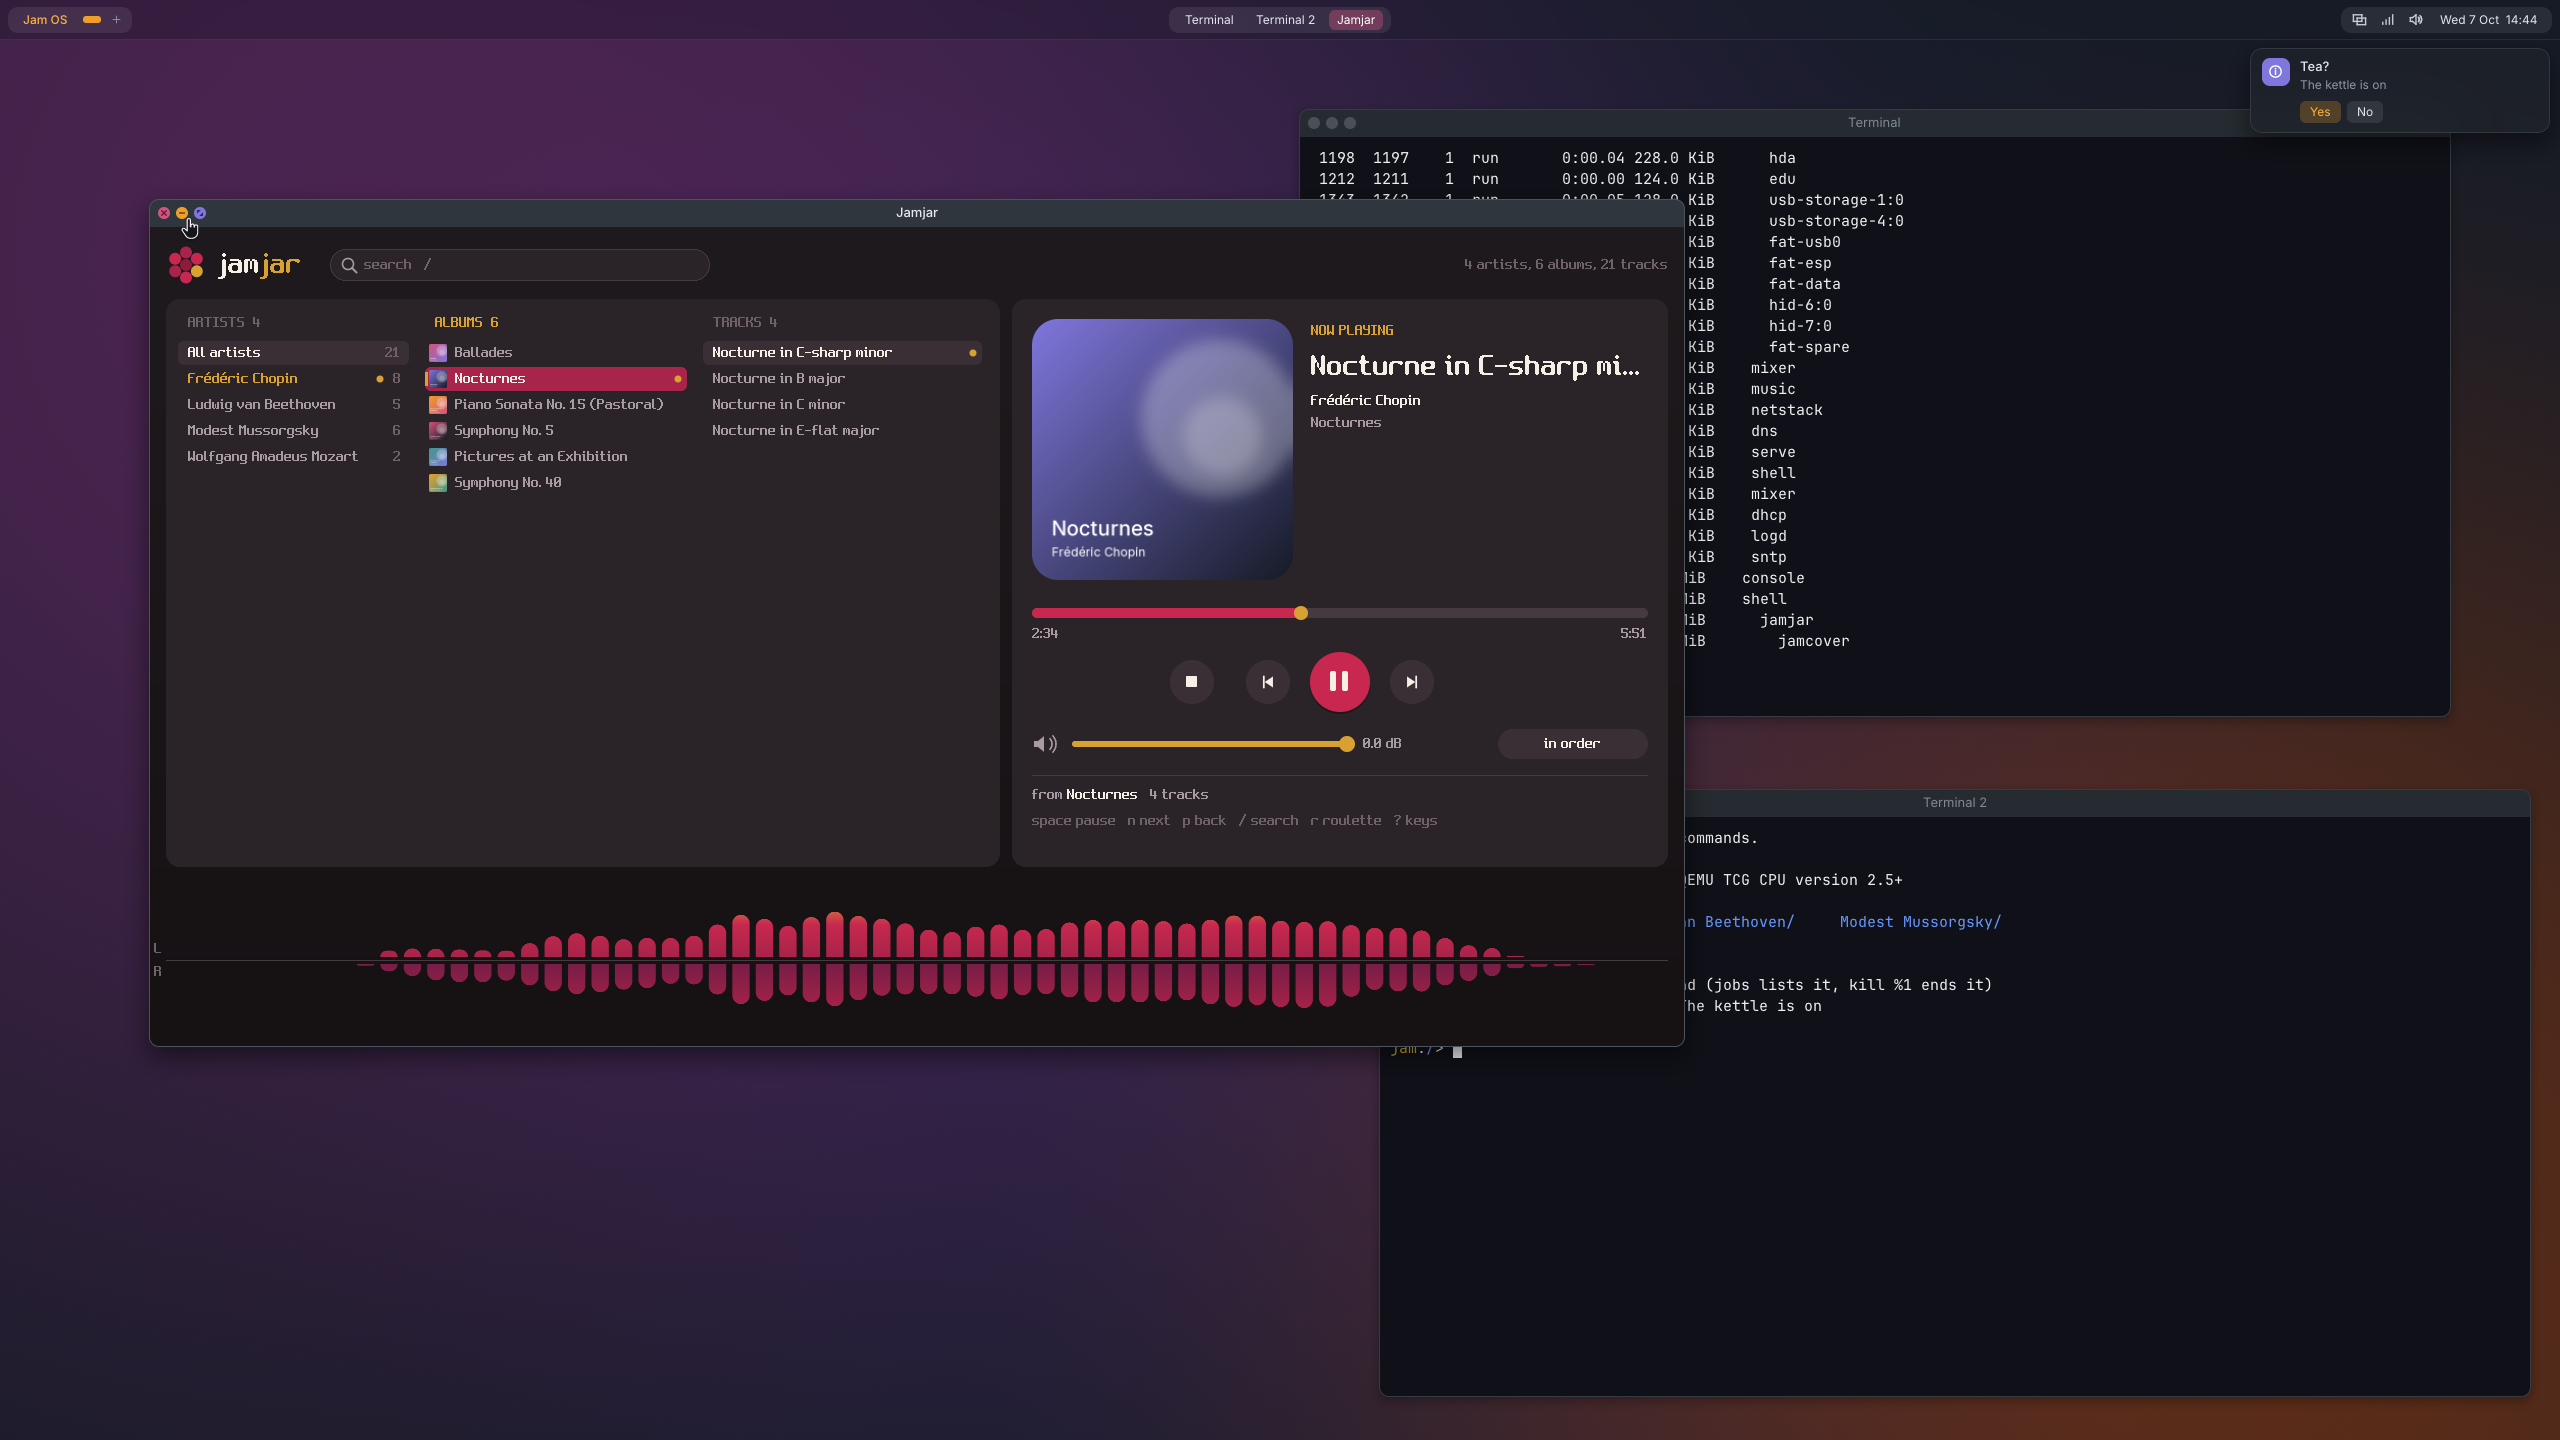
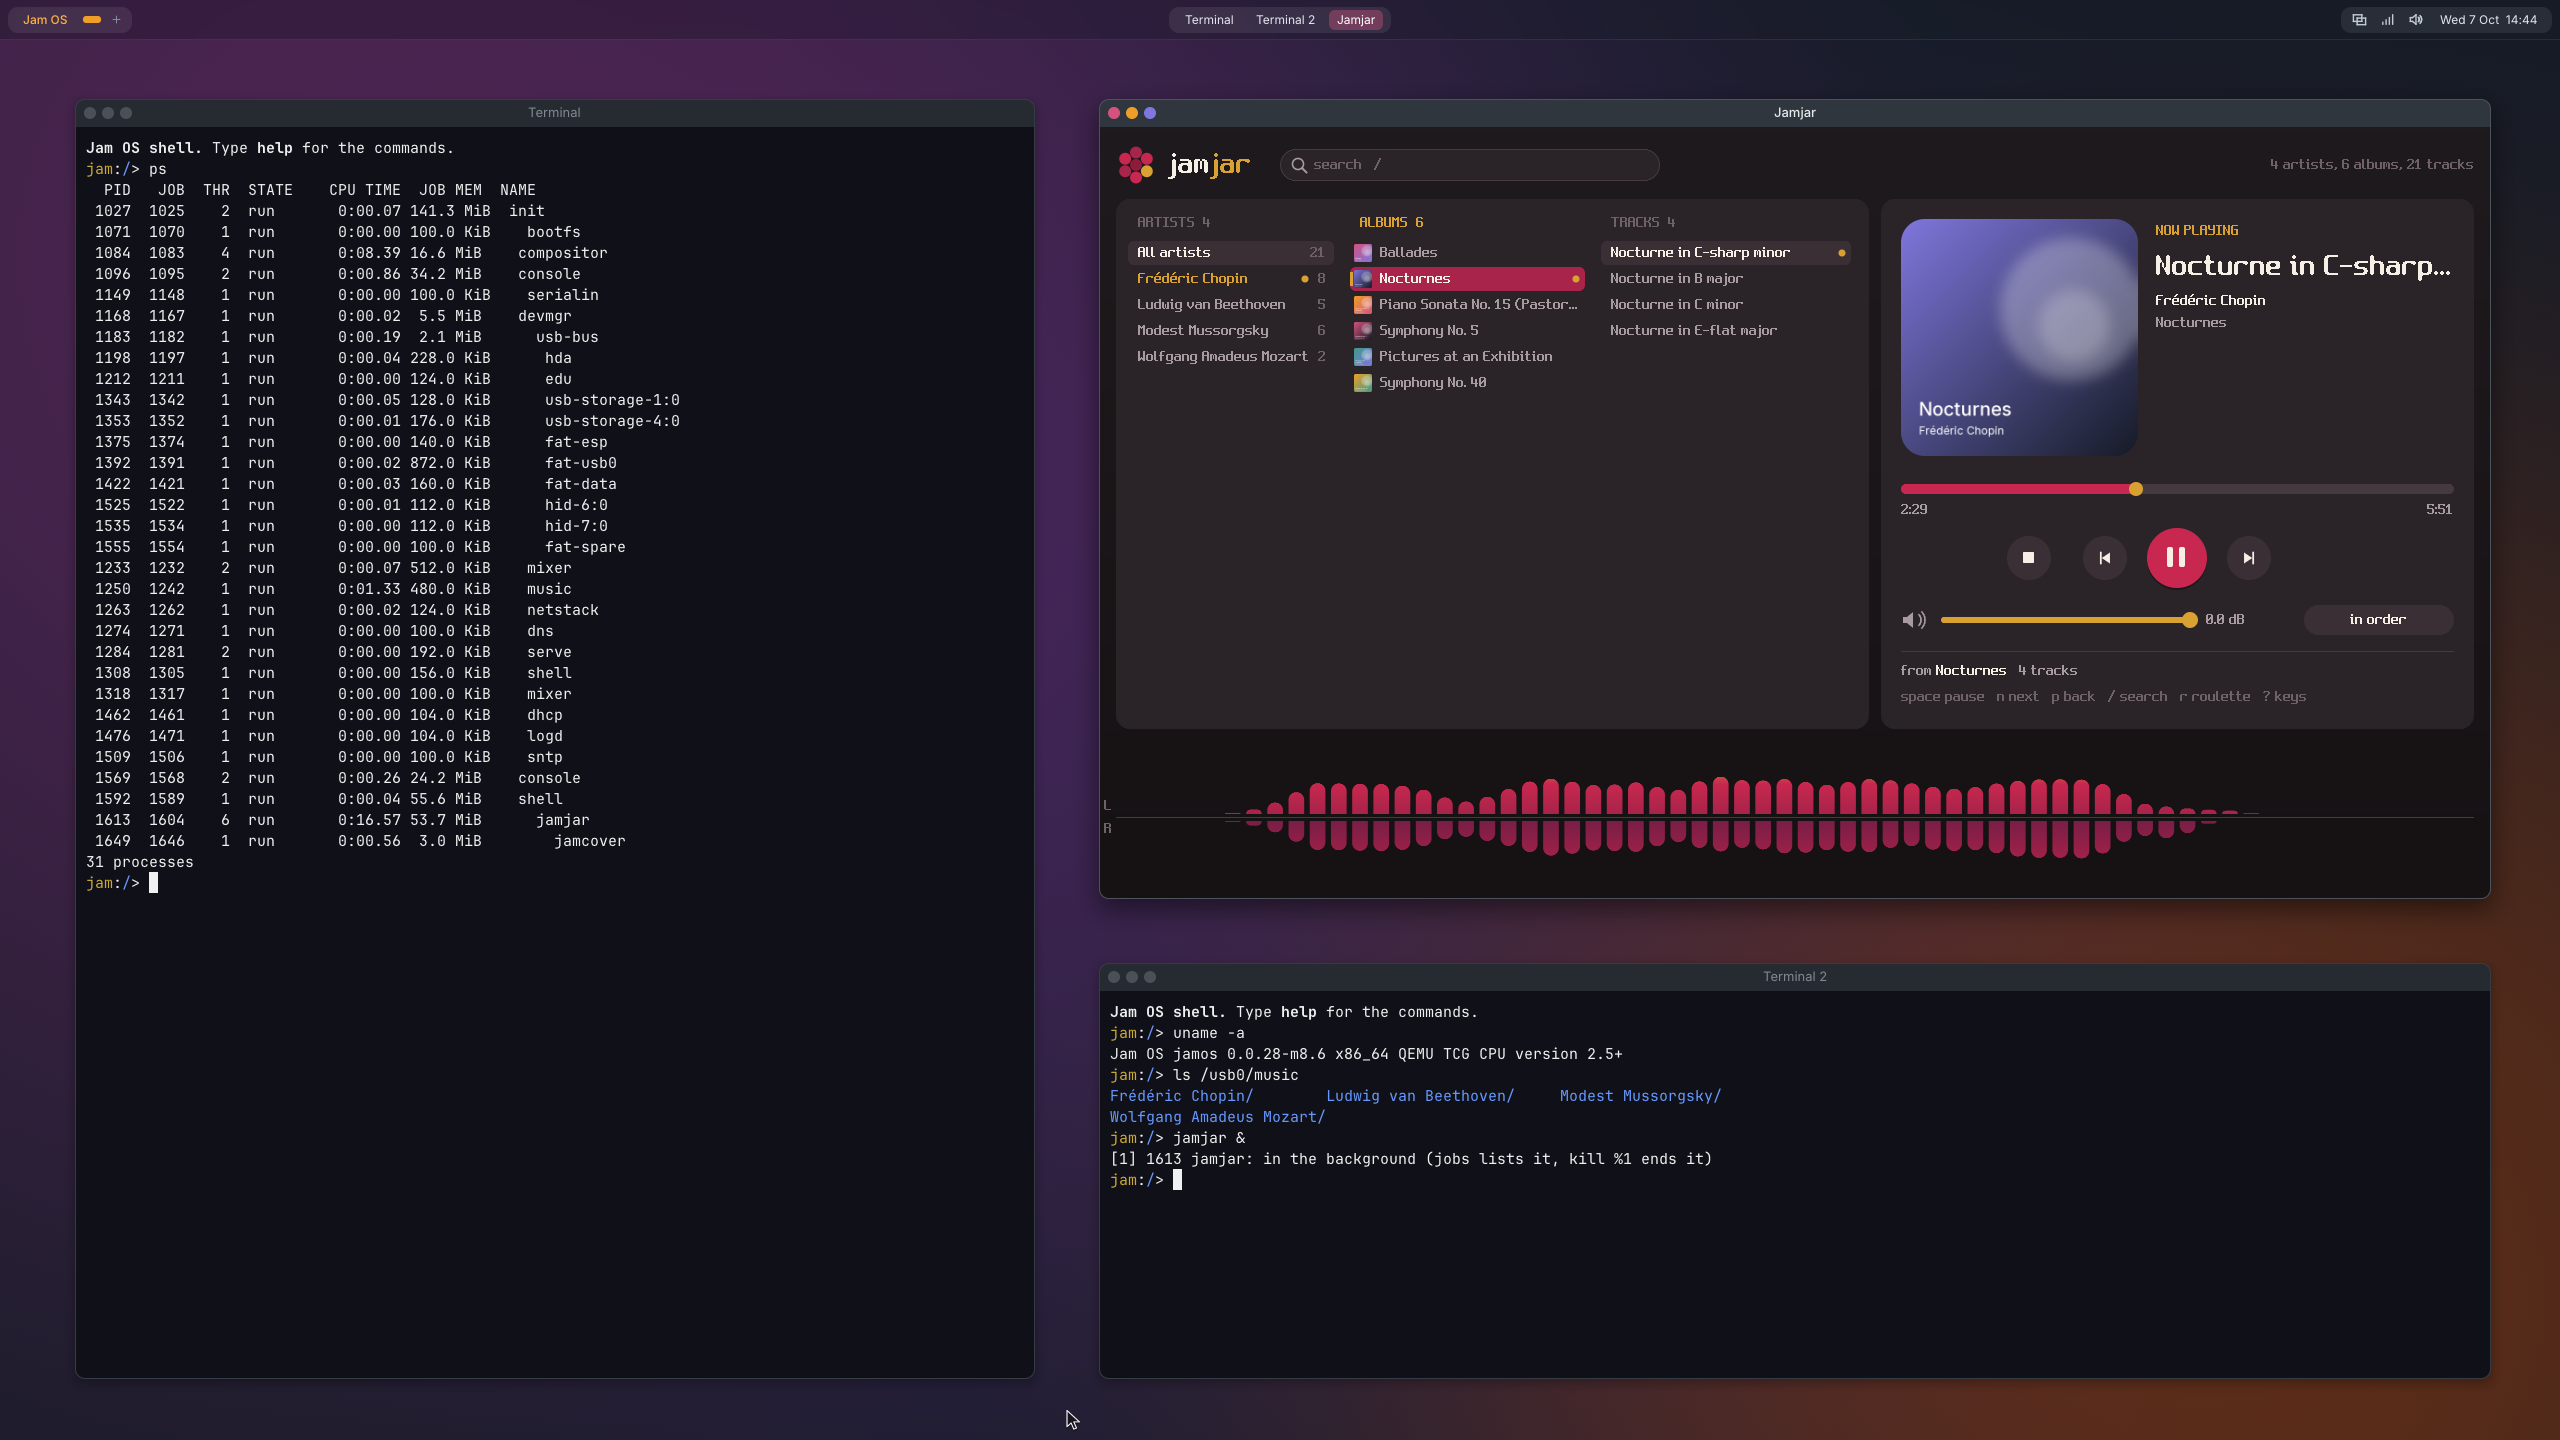
README: three pictures (the owner's set): the tiled desktop, the search box open over that same desktop (a crop centred on the box), and the same windows floating apart with no overlap, no notice or popover; the popover and panic-screen pictures and their capture steps dropped (the panic screen is d

diff --git a/docs/TESTING.md b/docs/TESTING.md
@@ -617,7 +617,7 @@ QEMU_INPUT=tools/shell-tests/<name>.txt tools/qemu-test.sh build/test <name> she
 | `beep.txt` | `beep 440 500` and `hda gain` (shown, set, clamped at both ends) | use `tools/beep-test.sh` |
 | `mixer.txt` | `vol` (nothing playing, the master set and clamped, a missing stream, usage), then `mixtest` | use `tools/mixer-test.sh` |
 | `desk.txt` | the desktop's plumbing with real USB input and QEMU's network: netstack's Connected notice with the peer's lease, `notify -w` answered by a click on its card's button, the text bar over a terminal's text (`desk-text-cursor`), `launch` refusing what isn't a desktop app, the search box starting Jamjar through init (busy until its window) and Super+Q ending it, its "Run ... in a terminal" row opening terminal 2 whose shell runs the line (clicks at 1280x800) | use `tools/desk-test.sh` |
-| `readme.txt` | the README's desktop pictures at 2560x1440: Jamjar playing a stick's library beside two tiled terminals (`ps`, `uname -a`), the windows floating and moved apart with a `notify` card, the search box, the volume popover (the geometry is in its header) | use `tools/readme-shots.sh` |
+| `readme.txt` | the README's desktop pictures at 2560x1440: Jamjar playing a stick's library beside two tiled terminals (`ps`, `uname -a`), the search box open over that desktop, then the same windows floating, sized with Super+Alt and dragged apart so none overlaps (the geometry is in its header) | use `tools/readme-shots.sh` |
 | `mixer-restart.txt` | `mixramp 20 300` (a ramp played while init kills the mixer 20 times, other calls made meanwhile), then `vol` | use `tools/mixer-restart-test.sh` |
 | `mixer-spare.txt`, `mixer-nospare.txt` | the mixer's warm spare: `ps` with the spare, `kill mixer` once and 12 times in a row, `kill devmgr` (the mixer exits by itself), `vol` after each; then, booted with `nospare`, five kills each starting a new process | use `tools/mixer-spare-test.sh` |
 | `fat-restart.txt` | fat carrying on from a dead instance's state (`user/services/fat/adopt.c`), on `/data` through devmgr: files written and never synced, `kill fat-data` right after, read back; an append and two kills; the kernel and the bootfs copied, kills, their checksums; bursts of five kills between appends; `sync`, `reboot -f` | use `tools/fat-restart-test.sh` |
@@ -1352,7 +1352,7 @@ of them. Each file's header says more.
 | `tools/write-usb.sh`, `tools/mbr-grow.py` | `make usb`: the image onto a stick, the data partition grown to its end and left blank |
 | `tools/flash-usb.sh` | `make flash`: a new kernel, boot image and boot menu onto a stick's ESP, the stick's kernel and boot image kept as the previous build |
 | `tools/flash-test.sh <outdir>` | `tools/flash-usb.sh` on a copy of the image attached with `hdiutil` (never a real disk; macOS): the new files are there, the stick's old kernel and boot image are the previous build (an older one placed first replaced), no `.new` file is left (stale ones placed first included), the data partition is unchanged |
-| `tools/readme-shots.sh <outdir> <music folder>`, `tools/readme-music.py <dir>` | the README's pictures, taken again: the music library (public-domain recordings from the Internet Archive, each file's MD5 checked, laid out Artist/Album/Track.mp3 with covers made in the jam colours) into a folder outside the repository, then two QEMU boots at 2560x1440 (`readme.txt`, and `crash pf yes` with `panichold=5000` for the panic screen) and the pictures as PNG; `README_SHOTS_INSTALL=1` copies them into `docs/images/`. No music is ever committed |
+| `tools/readme-shots.sh <outdir> <music folder>`, `tools/readme-music.py <dir>` | the README's pictures, taken again: the music library (public-domain recordings from the Internet Archive, each file's MD5 checked, laid out Artist/Album/Track.mp3 with covers made in the jam colours) into a folder outside the repository, then one QEMU boot at 2560x1440 (`readme.txt`) and the three pictures as PNG (the search box's cut to the part of the screen centred on it); `README_SHOTS_INSTALL=1` copies them into `docs/images/`. No music is ever committed |
 | `tools/mksplash.sh` | `boot/splash.mpg` from the owner's animation and its sound (ffmpeg); `make` runs it only when both source files are there (`SPLASH_SRC`) and one is newer |
 | `tools/bdf2c.py`, `tools/compdb.py` | `make font` (the console font from Spleen's BDF), `make compdb` |
 | `tools/update-server.py` | serves `build/jamos.elf`, `build/bootfs.img` and their manifest to the PC's `update` (UDP 5022, a snapshot per manifest request); `--manifest K B` prints a manifest; `--self-test` runs it against a Python client on 127.0.0.1 (a whole fetch with 10 % lost both ways and the files rebuilt half way: the snapshot's bytes; a new snapshot; GONE, RANGE, a short last piece; malformed requests unanswered; old snapshots dropped; the manifest's rules; the version from `build/jamos.elf`; the commit from a boot image's `build.txt`; each `PlannedServer` plan; signing with a throwaway key: a signed manifest checks, another key's, a changed byte's and the `unsigned` and `badsig` plans' don't) |

diff --git a/README.md b/README.md
@@ -20,25 +20,15 @@ its own.
 
 ## A tour
 
-![Three floating windows on the jam wallpaper: Jamjar in front with the raspberry, apricot and blackcurrant circles on the left of its title bar, rounded corners and a soft shadow, two terminals behind it, and a notification card with Yes and No buttons in the top right corner](docs/images/desktop-floating.png)
+![The search box open over the same tiled desktop, centred in the picture: "ja" typed, Jamjar as the top result with "Music player" and "Enter" beside it, and a row to run "ja" in a terminal; Jamjar's library and the top bar's window chips around it](docs/images/desktop-search.png)
 
-Windows float too (Super+T switches a screen between tiling and
-floating): the jam circles close, minimise and go full screen.
+The search box (tap Super, or click "Jam OS" on the top bar) starts an
+app or runs a command in a new terminal.
 
-![The search box open under the top bar, "ja" typed: the Jamjar app as the top result and a row to run "ja" in a terminal, over the floating windows](docs/images/desktop-search.png)
+![The same three windows floating on the jam wallpaper, apart with gaps between them: a terminal listing the running programs on the left, Jamjar playing at the top right with the raspberry, apricot and blackcurrant circles on the left of its title bar, and a smaller terminal below it; rounded corners and soft shadows](docs/images/desktop-floating.png)
 
-The search box (Super, or the top bar's "Jam OS") starts an app or runs a
-command in a new terminal.
-
-![The top bar's volume popover open under the speaker icon: the volume slider at 100%, the output (QEMU line-out) and what is playing (Nocturne in C-sharp minor), beside a terminal and Jamjar](docs/images/desktop-popover.png)
-
-The top bar's icons open popovers: the volume (with what's playing), the
-network and the clock.
-
-![The calm panic screen: a dark screen with a small spinning ring, the words "Jam OS hit a problem and is restarting" and the code JAM-PF-0018 under them](docs/images/panic-screen.png)
-
-A kernel panic shows a calm screen with a short code while Jam OS
-restarts itself; the next boot saves the log, and `crashlog` shows it.
+Windows can float instead of tiling (Super+T switches a screen): the jam
+circles on a title bar close, minimise and go full screen.
 
 ## What works today
 
@@ -52,7 +42,8 @@ music player. The keys and the rest: [docs/USING.md](docs/USING.md#the-desktop).
 scheduling for hybrid P/E cores; virtual memory; capability handles,
 channels and ports; processes, threads and jobs with quotas on every
 kernel resource; a lock-order checker and a watchdog; reboot by kexec;
-the panic screen above. The design: [ARCHITECTURE.md](ARCHITECTURE.md).
+a calm panic screen with a short code (`JAM-PF-0018`) while Jam OS
+restarts itself, the panicked boot's log saved for `crashlog`. The design: [ARCHITECTURE.md](ARCHITECTURE.md).
 
 **Drivers and hardware**: drivers are user processes, restarted by a
 device manager when they crash; a PCI core with MSI/MSI-X and DMA
